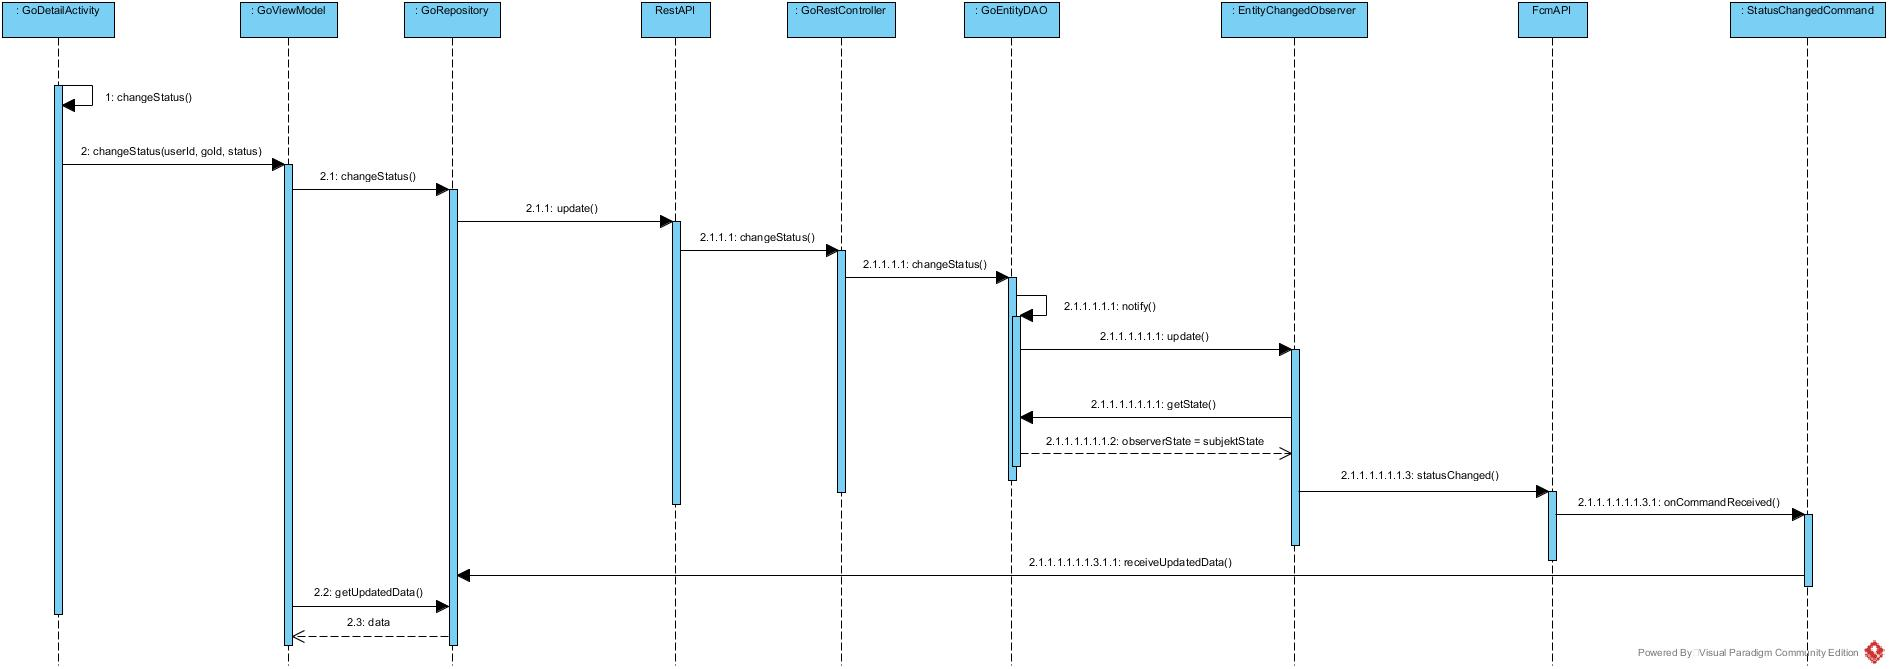
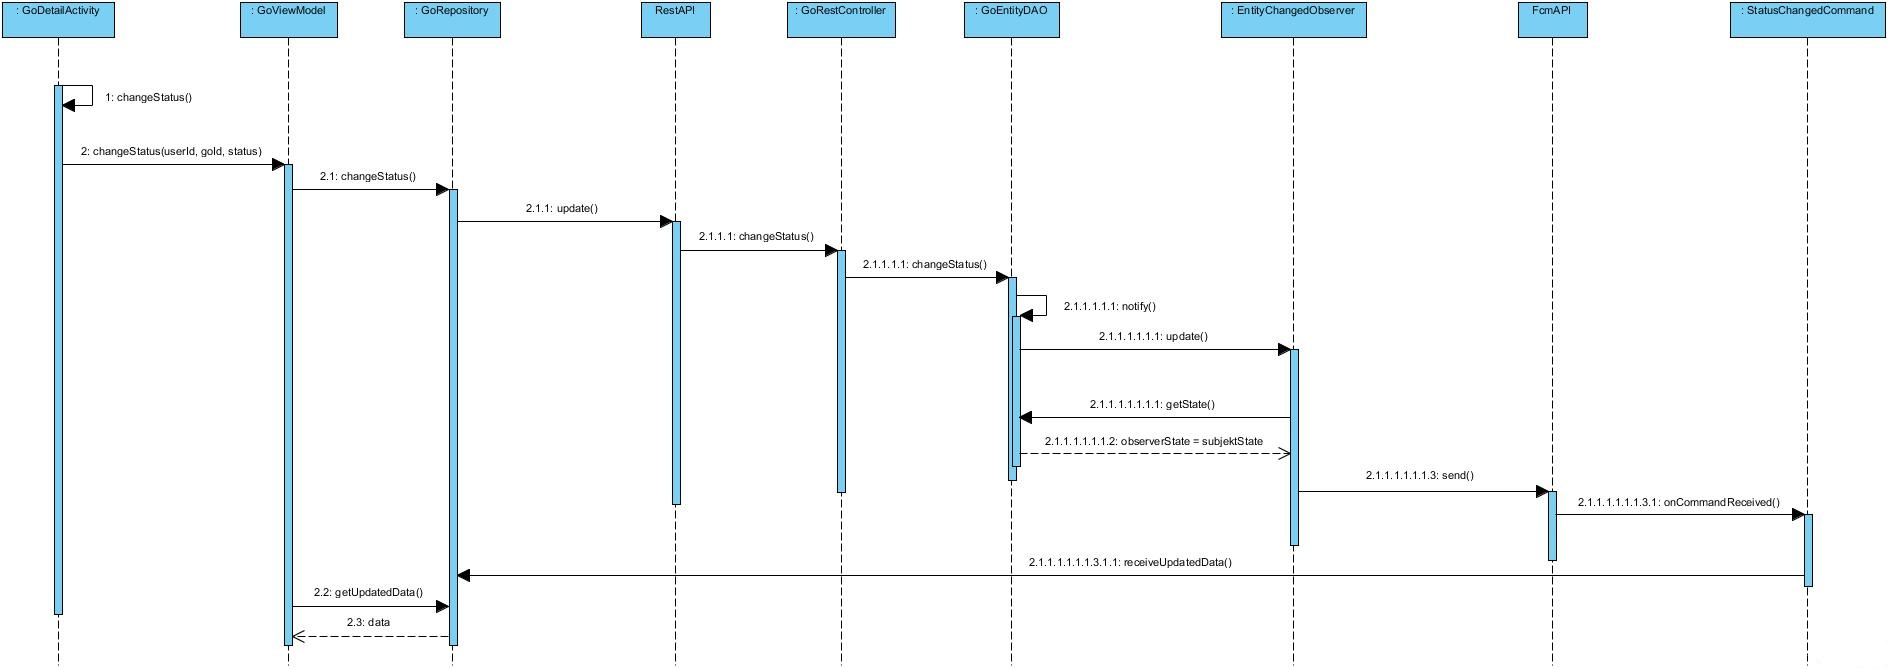
Sequenzdiagramm 'change_status' zum Entwurfsdokument hinzugefügt

diff --git a/02_Entwurf/texdoclet_output/Entwurf.tex b/02_Entwurf/texdoclet_output/Entwurf.tex
@@ -3945,4 +3945,20 @@ Danach wird die Anfrage über die GroupRepository und das Rest API an den Server
 Der Observer baut ein Message-Objekt aus der erhaltenen Gruppe und extrahiert eine Liste aller Gruppenmitglieder aus dem Gruppenobjekt. Diese Daten werden weitergegeben an dem FcmClient über die Methode send(). Dadurch werden die Nachrichten über die Löschung der Gruppe an die Gruppenmitglieder geschickt, damit diese ihre lokalen Daten anpassen können.
 % ------- textdoclet_include/finish.tex end
 
+\subsection{Teilnahmestatus ändern}
+
+\begin{figure}[H]
+	\centering
+	\includegraphics[width=1\textwidth]{../Sequenzdiagramme/Change_status.jpg}
+	\caption{Sequenzdiagramm - Teilnahmestatus des Benutzers innerhalb eines GOs ändern}
+\end{figure}
+
+Das obige Sequenzdiagramm zeigt, was während der Ausführung des Programms passiert, wenn ein Benutzer seinen Teilnahmestatus innerhalb eines GOs ändert. Das User Interface stellt dem Benutzer ein Button in der GO-Detail-Ansicht zur Verfügung. Beim Anklicken des Buttons wird dem Benutzer ein Feld mit der Wahlmöglichkeit eines Status gezeigt. Activity-Klasse extrahiert den neuen Status und übergibt diesen an das GoViewModel über den Methodenaufruf 'changeStatus()' mit userId, goId und status als Arguments enthalten. Das ViewModel überprüft zunächst ob es ein gültiger Status für diesen Benutzer ist. Falls ja, wird die Anfrage an das GoRepository weitergeleitet und von dort über die Klasse TomcatRestApi (RestAPI) an den Server gesendet.
+
+Die Anfrage kommt durch den Methodenaufruf 'changeStatus()' in der GoRestController-Klasse an und wird dann an das GoEntityDAO weitergegeben, wobei die Methode 'changeStatus()' des GoEntityDAOs aufgerufen wird.  Der neue Status des Benutzers beim aktuellen GO wird in der Datenbank ('UserGoStatus' Entity Bean) gespeichert und es werden die Observer benachrichtigt, dass sich die Daten geändert haben.
+
+Der EntityChangedObserver merkt sich diese Änderung des betroffenen GOs, das er beim Aufruf der 'update()'-Methode bekommt. Der Observer baut ein Message-Objekt aus dem erhaltenen GO und extrahiert eine Liste aller GO-Teilnehmer. Diese Daten werden weitergegeben an dem FcmClient über die Methode 'send()'. Die Nachricht, die von dem Server, über dem Firebase Cloud Messaging Server, an den Client gesendet wird, löst einen Aufruf der Methode 'onMessageReceived()' in der Klasse MessageReceiver aus. Diese Klasse findet heraus, an welches ServerCommand-Objekt die Anfrage weitergeleitet werden muss.
+
+Nach Weiterleitung der Anfrage an den StatusChangedCommand  werden die neuen Daten (das GO) im GoRepository gespeichert. Danach schickt das StatusChangedCommand-Objekt einen Broadcast an alle ViewModels. Das GoViewModel erkennt, dass der Broadcast eine Änderung des GOs des Benutzers betrifft. Daraufhin holt sich das ViewModel die aktualisierten Daten von der GoRepository ab, durch einen Aufruf der 'getCurrentData()'-Methode. Da das UI die LiveData der ViewModels beobachtet, wird automatisch bei einer Aktualisierung des ViewModels auch das UI aktualisiert und zeigt die neuen Daten an.
+
 \end{document}
